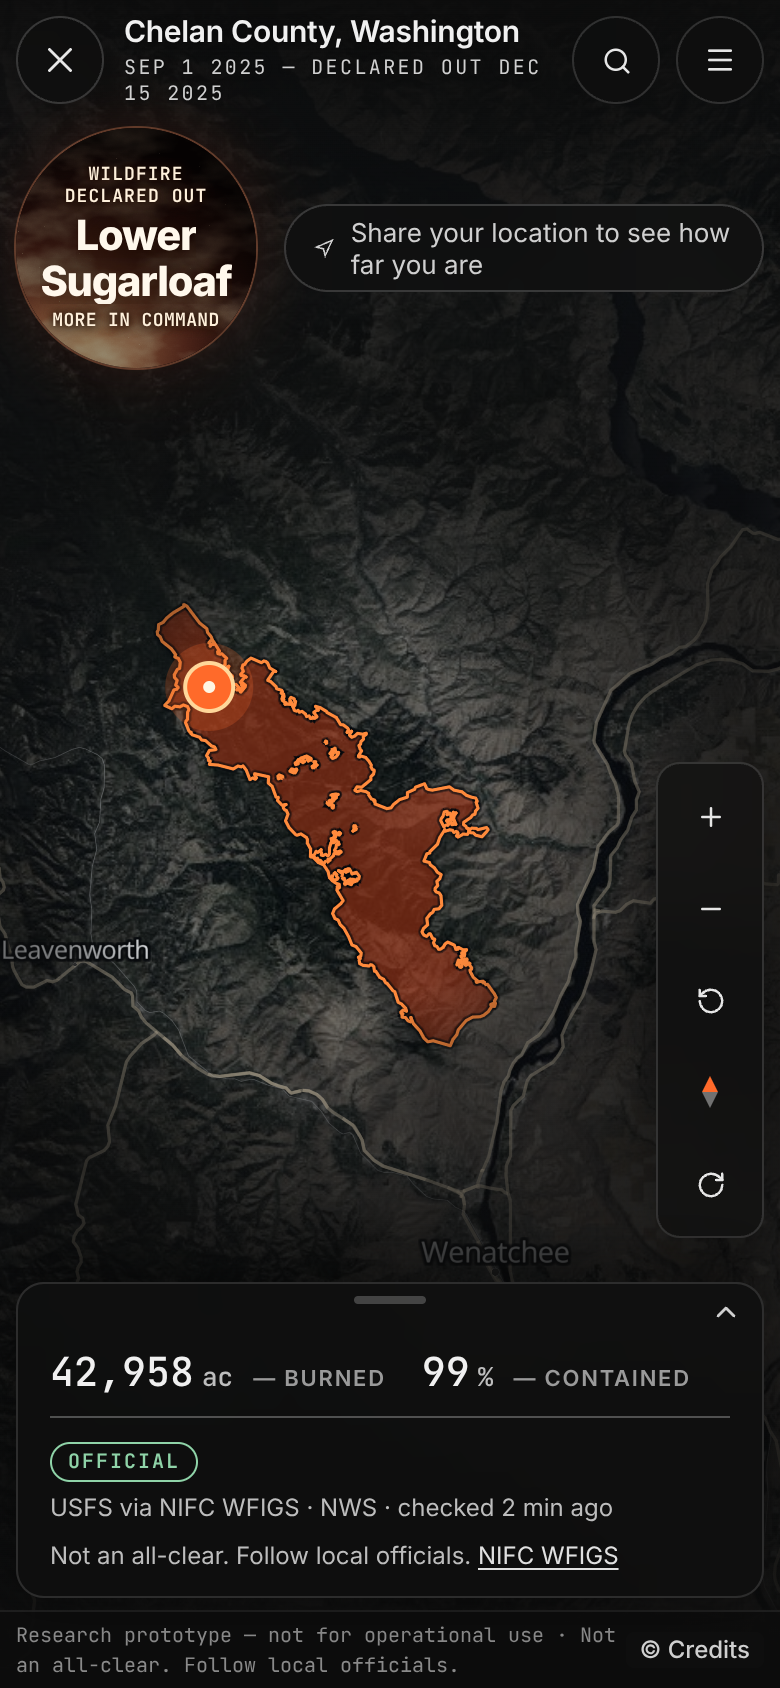
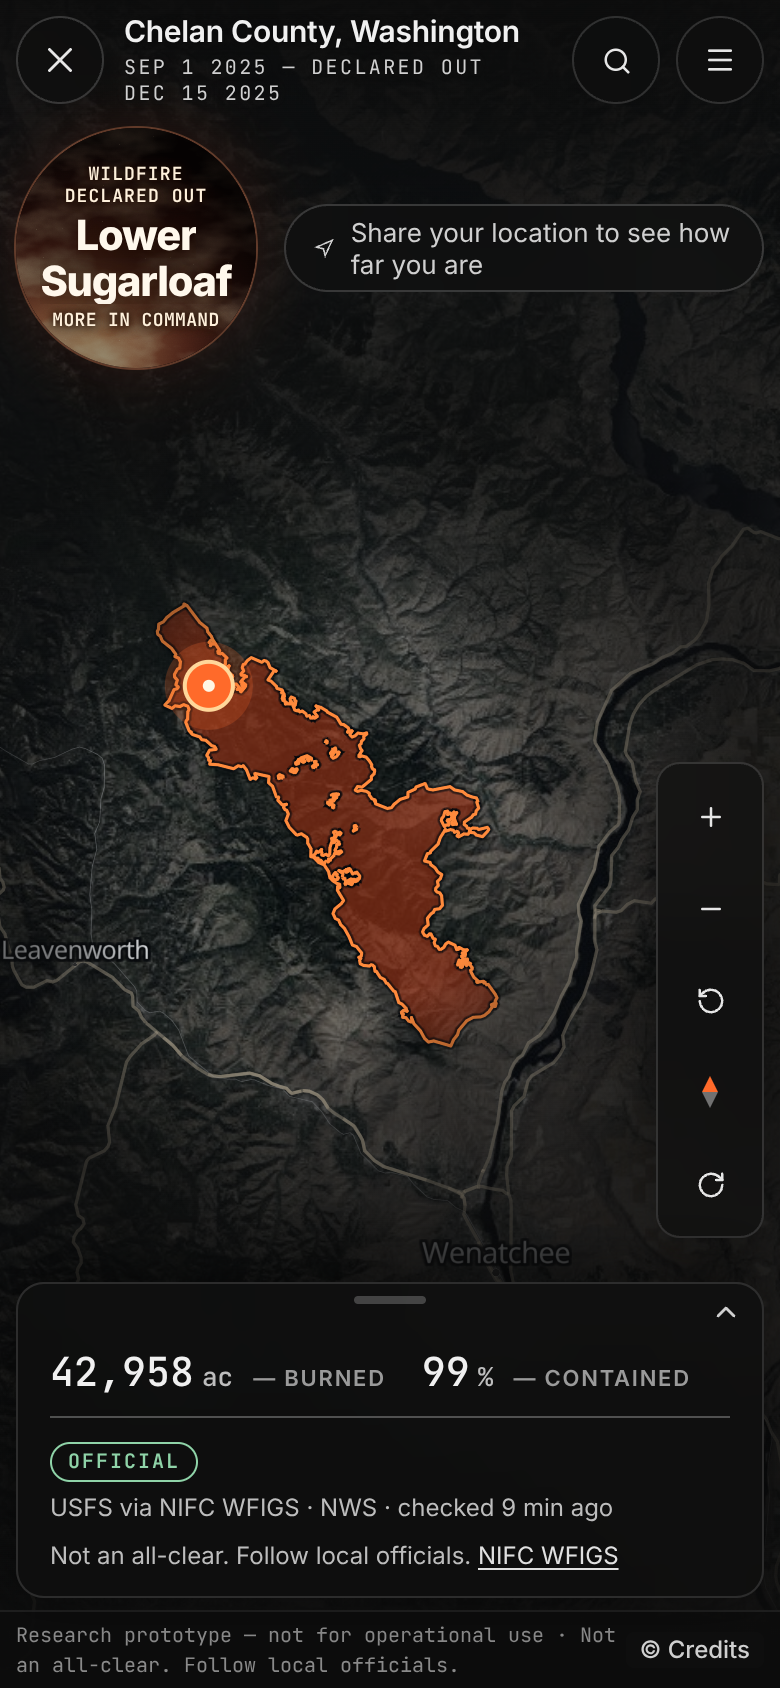
brief 4 H6: final check finished (CONTRACT 15.5, report, progress notes, phone fire view screenshot)
Gates: typecheck ok, lint 55 (all src/scene), web 1383 passed + 2 skipped, build ok,
backend 1009 passed. Smoke (scratch Playwright): rotation 56/56, reduced motion 27/27,
fixed copy / safety words / console errors 56/56 on 14 views. Count-only scans clean.
Backend test_health_lists_status_and_errors: root cause was the contracts module
reading the developer's data/cache (fresh live list + day-old WFIGS lookup -> 503);
isolated in the test setup (snapshot 186aac5).

Claude-Session: https://claude.ai/code/session_016JQLLLPiy3zrdDeXcY1uZS

diff --git a/docs/redesign/CONTRACT.md b/docs/redesign/CONTRACT.md
@@ -3901,4 +3901,53 @@ rule is scoped to `.app`, `.fx-bar`, `.minibar`, `.fx-empty*` or a Forensic-only
 
 #### Final check — as built
 
-_To be filled by the final check._
+Step H6 (`final-verification-4`), 2026-10-24: report `reports/final-verification-4.json`, screenshots
+`docs/screenshots/brief4-final-*.png`, notes `progress/brief4-final-verification-4.md`. No interface of §15.1-15.4
+changed; no backend source, HTTP contract or H2 frozen file changed.
+- *Start*: nothing of the build was left uncommitted (working tree clean at `bf3e79c`).
+- *Gates*: typecheck ok; lint 55 warnings, all in `src/scene` (none added); web tests 101 files, 1383 passed, 2 skipped;
+  build ok; backend `uv run pytest -q` 1009 passed.
+- *Backend test isolation* (H2's known failure): `tests/test_endpoint_contracts.py`'s module fixture `client` read the
+  developer's own `data/cache`, so `test_health_lists_status_and_errors` depended on its age. With a live list fresh in
+  that cache (CAL FIRE 10 min TTL; any running dev server refreshes it) and the cached WFIGS `IrwinID LIKE '{000000%'`
+  answer past its 24 h TTL, the unknown id `2099-nope-fire-000000` reached the blocked transport, `resolve_listed`
+  counted a failed lookup and raised `ListsUnavailable`, and the API answered 503 instead of 404. Reproduced (503) right
+  after this step's API fetched the live list. Fix (test setup only): the fixture points `config.CACHE_DIR` at an empty
+  temp folder and calls `catalog.clear_cache()` before and after. The suite then passes in that same cache state. With
+  an empty cache the 404 comes from conftest's refusal raising `RuntimeError`, which `_catalog_summary` treats as "not
+  listed"; a real outage (`HttpError`) still answers 503 by design (§14.2).
+- *Small fixes*: (1) the fire view's date line on phones broke inside a date ("DECLARED OUT DEC" / "15 2025"):
+  `ui/public/FireTitle.tsx keepDatesWhole(line)` wraps each "MON D YYYY" in `.pfv-date-day` (nowrap, `view-public.css`),
+  so the line breaks only between them; (2) the map compass needle lost its 80 ms CSS transition (`map/map.css`), which
+  spun it the long way round when the heading crossed ±180° (H5's known issue); it follows the heading every frame.
+- *Screenshots* (Chrome + SwiftShader; viewed): 1440×1000 unless noted: `public-overview-minimal` and
+  `public-overview-details` (1440×1144, Main), `command-overview`, `public-fire-lower-sugarloaf`,
+  `public-fire-fixture-live`, `public-fire-unprepared-willow` (listed, no bundle), `command-fire-fixture-live`
+  (`&sel=36.215,-121.43`), `forensic-fixture-live`, `rotated-public` (35°), `rotated-command` (−40°), `rotated-forensic`
+  (35°), and phones 390×844 @2x `phone-public-overview`, `phone-public-fire`, `phone-command`. No console error on any.
+- *Smoke run* (scratch Playwright, not in the repo; Chrome + SwiftShader, 1440×1000): rotation 56/56 (55 in one run; the Forensic 2D → 3D check passed on a re-run once the script waited for the tilt
+  rather than a fixed pause under SwiftShader) (Q, E, Q Q
+  pressed together, N, the ⟲ ⟳ buttons, a quarter-turn compass drag, compass click in the Public overview, Public fire
+  view, Command in a fire, Command overview and Forensic; 2D ↔ 3D keeps the heading in Command and Forensic, E turns
+  Forensic's 2D view; map 30° → Forensic 30°, turned there to 330° → Command 330°); reduced motion 27/27 (no running CSS
+  or Web Animation and no playing SVG animation on nine views; a turn lands at once; control: the hazard circle
+  animates without reduced motion); fixed copy, safety words and console errors 56/56 on 14 views (incl. Forensic with
+  no fire and four phone views): "Research prototype — not for operational use" (the overview's §14.14 form "RESEARCH
+  PROTOTYPE · Not for operational use. " + `LIST_ABSENCE`, decision i-5) and "…not an all-clear. Follow local
+  officials." visible, no "safe" / "low risk" / "FireTrace" on screen, no console error (Forensic logs one three.js
+  warning, "THREE.Clock … deprecated").
+- *Scans* (count only; the key is never printed): `FIRMS_MAP_KEY` value 0 times in 1372 tracked files, 0 in the
+  `f318347..HEAD` diffs and 0 in their commit messages; "FireTrace" 0 in code and UI (docs name it only in the rule);
+  "safe" / "low risk" 0 in brief-4 UI strings (only in tests that assert their absence; the older caveat "does not
+  establish the safety of a route or an area" is unchanged).
+- *README*: the screenshots are the brief-4 set, a new "The three views at a glance" section (each view, turning the
+  map, the dimming, the fixed copy), and the lines that described the old look (click → fire card and zoom focus in
+  Public, rotation only in 3D, the header's satellite chip, the coordinate strip, the cyan Forensic pin) now say
+  what the app does; every data-source credit is unchanged.
+- *Left for later* (details in the report's `known_issues`): Safari trackpad and touch twists are checked only with
+  synthetic events (a person should try them on a Mac and a phone); every measurement used SwiftShader (no GPU; the
+  hazard circle's CPU cost on a laptop is not measured); a checked device point reaches Fire-3d's server like a map
+  click (keeping it out of server logs needs a backend change); Command's readout scrolls on real fires at 1440×1000;
+  phones keep Command's default controls row and some 26-32 px Forensic dock buttons; the fire view has no skip link of
+  its own (`App.tsx` is frozen); and BRIEF-4's later list (search suggestions, Forensic search, the globe intro,
+  Wildfire-FM).

diff --git a/docs/redesign/progress/brief4-final-verification-4.md b/docs/redesign/progress/brief4-final-verification-4.md
@@ -4,12 +4,12 @@ Ports: API 8739, Vite 5199.
 
 - [x] 1. git status clean (nothing of the build left uncommitted at bf3e79c)
 - [x] 2. gates: typecheck ok, lint 55 (all src/scene), web 1383 passed + 2 skipped, build ok; backend 1009 passed. Root cause of test_health_lists_status_and_errors found and fixed in the test setup (see notes)
-- [ ] 3. final screenshots
-- [ ] 4. scratch Playwright smoke (rotation, reduced motion, fixed copy, console errors)
+- [x] 3. final screenshots: 14 in docs/screenshots/brief4-final-*.png, all viewed (phone fire view re-taken after the date fix)
+- [x] 4. smoke (scratch smoke.mjs): rotation 56/56 (55 in one run + Forensic re-run 11/11 with a tilt wait), reduced motion 27/27, fixed copy / safety words / console errors 56/56 on 14 views
 - [x] 5. count-only scans: FIRMS key 0 in 1372 tracked files, 0 in f318347..HEAD diffs and messages; FireTrace 0 in code/UI; safe / low risk 0 in new UI copy
-- [ ] 6. README UI + screenshots section
-- [ ] 7. CONTRACT 15.5 "Final check — as built"
-- [ ] 8. report final-verification-4.json, commit, push
+- [x] 6. README: brief-4 screenshots, 'The three views at a glance', old-look lines corrected, design docs listed
+- [x] 7. CONTRACT 15.5 "Final check — as built" filled
+- [x] 8. report final-verification-4.json; commit + push
 
 ## Notes
 - Start: working tree clean at bf3e79c.
@@ -21,3 +21,8 @@ Ports: API 8739, Vite 5199.
   fixture; the suite passes with a fresh live cache (1009 passed).
 - Screenshots 1-12 taken and viewed; phone fire view's date line broke inside "DEC 15 2025": fixed (FireTitle.tsx
   `keepDatesWhole`, `.pfv-date-day` nowrap).
+- Map compass needle: removed its 80 ms CSS transition (map/map.css), which spun it the long way across ±180° (H5's
+  known issue); smoke checks transition-duration 0s in four map views.
+- Smoke-script lessons (SwiftShader): poll for the expected heading instead of fixed sleeps; Forensic camera info and
+  the 3D tilt can lag several seconds; press the compass inside its own box before dragging around it.
+- Servers 8739 / 5199 stopped at the end.
